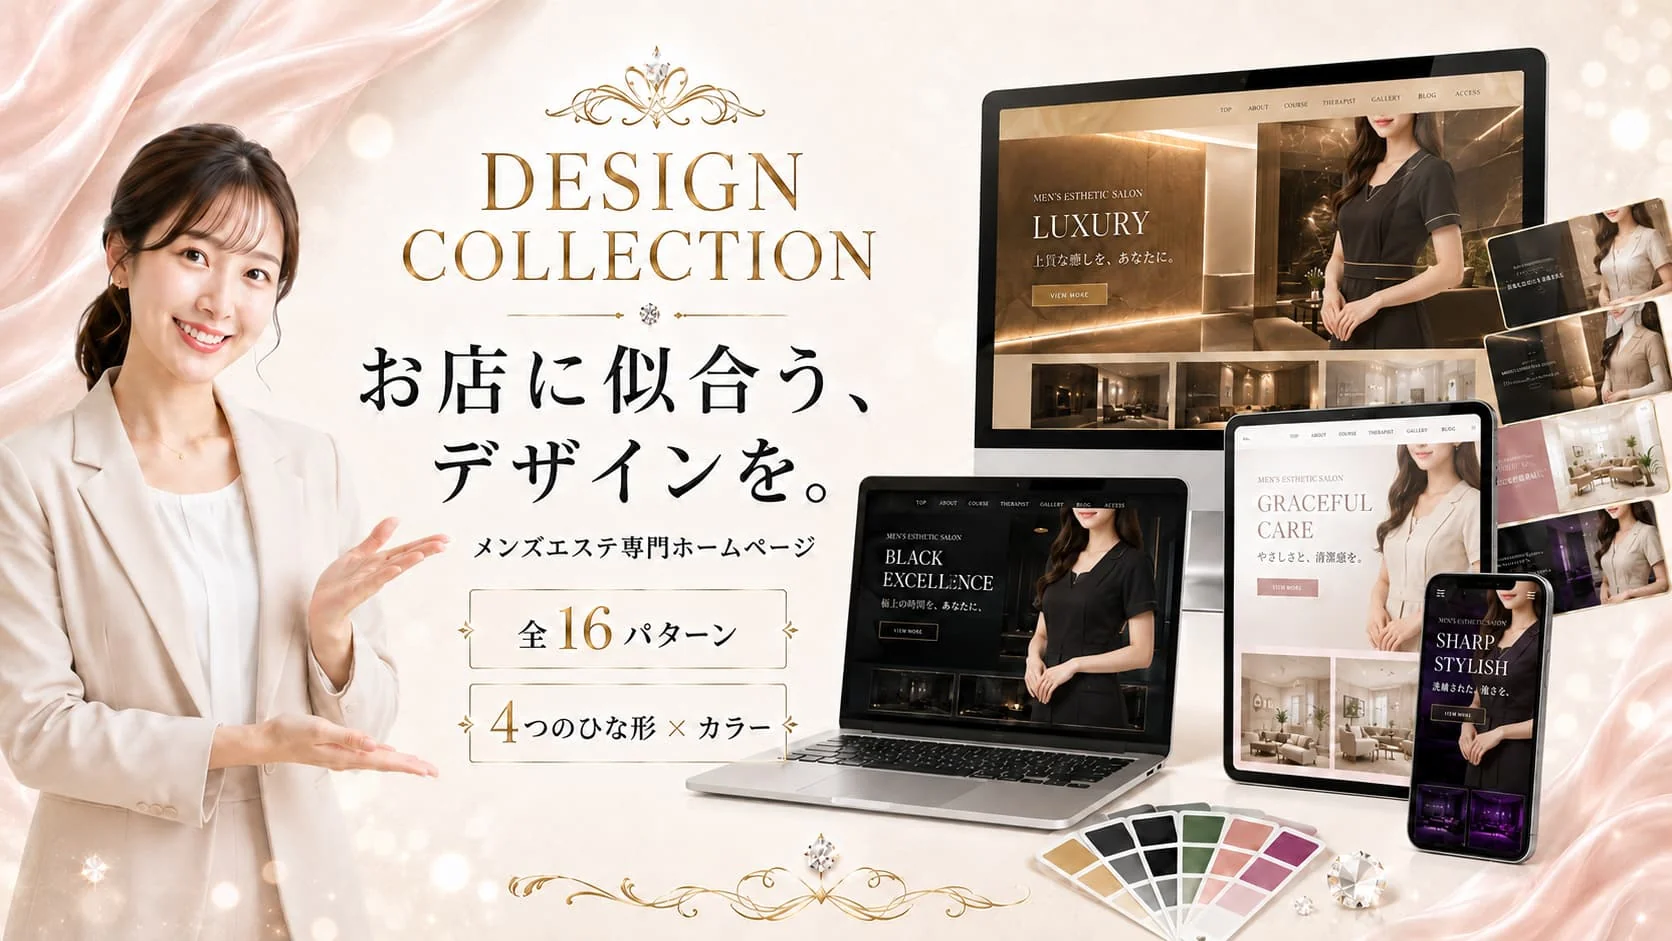
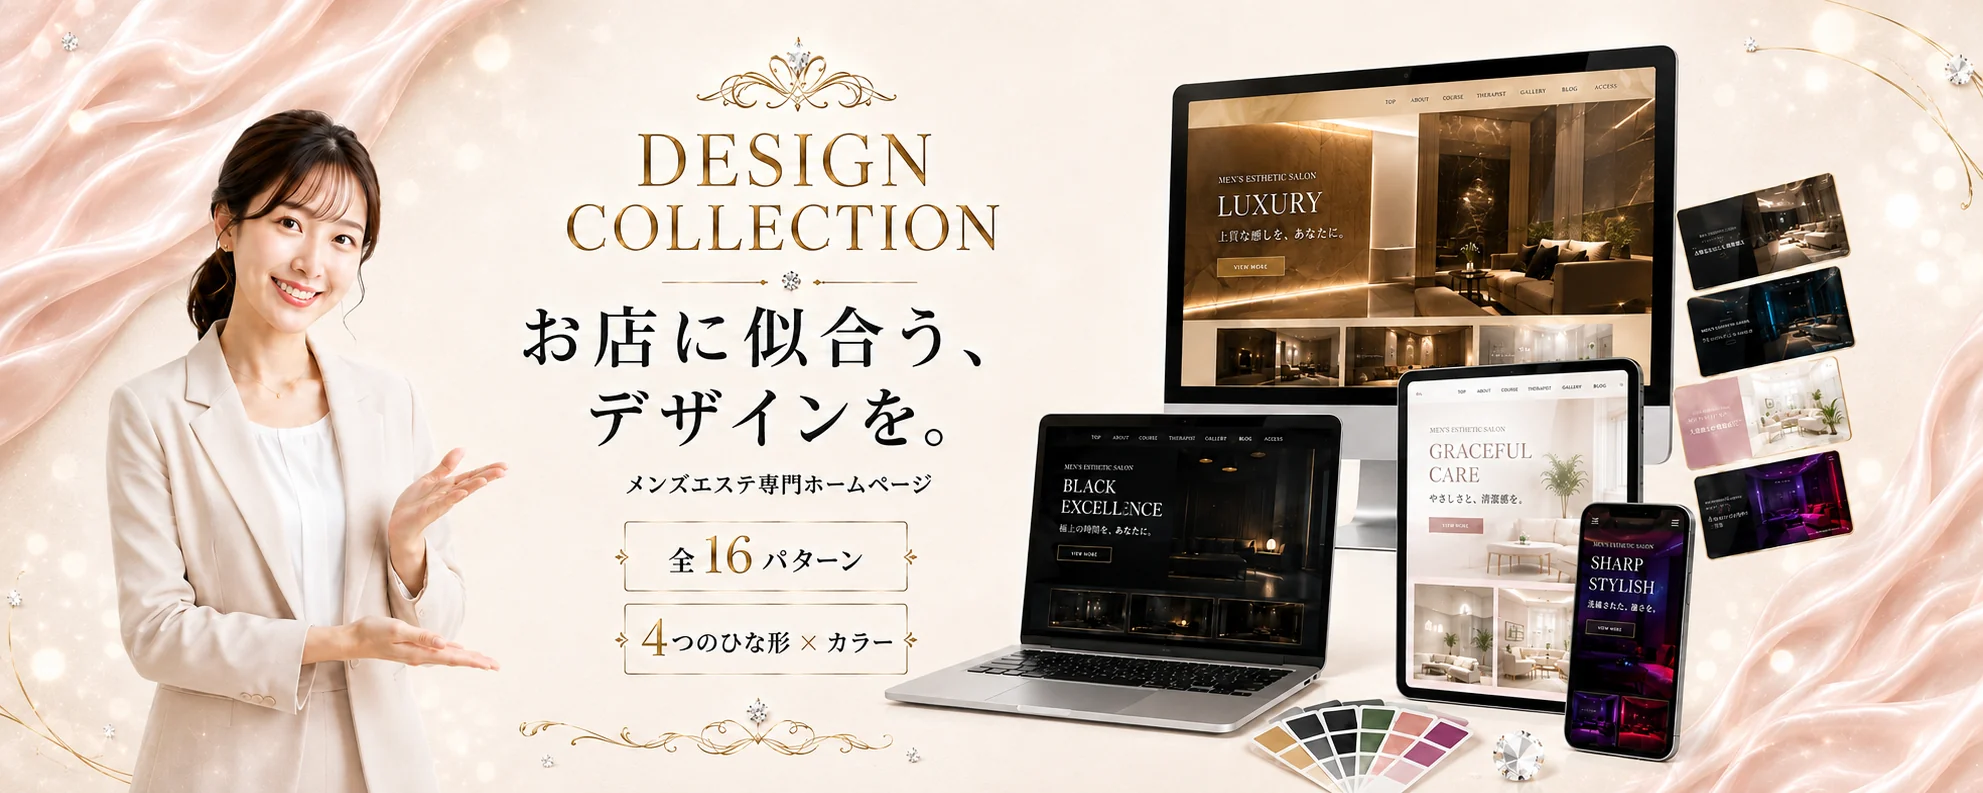
デザイン一覧のPCヒーローを2.5:1の新キービジュアルに差し替え

diff --git a/src/app/hp/templates/designs/page.tsx b/src/app/hp/templates/designs/page.tsx
@@ -138,17 +138,21 @@ export default function HpDesignsPage() {
           ★「16」は画像に焼き込まれている。カラーを増減したら designs-hero-pc/sp も作り直すこと
             （LP側の strengths / design / flow と合わせて計5枚になる）。
 
-          画像: public/hp-lp/designs-hero-pc.webp（1672×941・16:9）
+          画像: public/hp-lp/designs-hero-pc.webp（1983×793・約2.5:1）
                 public/hp-lp/designs-hero-sp.webp（864×1821・約1:2.11）
-          ※ 下端の色（PC #efded4・SP #f0dbcc）はページ背景 #fdf5f5 と差があるため、
+          ★ PC画像は 2026-08-16 に 1672×941（16:9）から 1983×793（2.5:1）へ差し替えた。
+            16:9 だと全幅表示で高さが 856px になり（ブラウザ幅1536pxで実測）、
+            表示領域639pxを 217px はみ出して「全16パターン」まで見えなかった。
+            2.5:1 なら同条件で 608px に収まる。★ 作り直すときも横長を保つこと。
+          ※ 下端の色（PC #f1e0d6・SP #f0dbcc）はページ背景 #fdf5f5 と差があるため、
             画像の直後に白い面を置かないこと。下の h1 ブロックはページ背景のままにしてある。 */}
       <section>
         <picture>
           <source media="(max-width: 639px)" srcSet="/hp-lp/designs-hero-sp.webp" width={864} height={1821} />
           <img
             src="/hp-lp/designs-hero-pc.webp"
-            width={1672}
-            height={941}
+            width={1983}
+            height={793}
             alt=""
             className="block w-full h-auto"
             fetchPriority="high"
@@ -163,14 +167,15 @@ export default function HpDesignsPage() {
       </section>
 
       {/* ── ヒーロー下端の継ぎ目つなぎ（2026-08-16）──
-          画像の下端はページ背景 #fdf5f5 と色差がある（PC 33 / SP 41・チャンネル最大）。
+          画像の下端はページ背景 #fdf5f5 と色差がある（PC 31 / SP 41・チャンネル最大）。
           ★ 画像側を背景色になじませる加工（flow-sp でやった手）は使えない。
             この画像は下端に金の飾りとダイヤが入っており、なじませると飾りが消えるため。
           そこで画像は無加工のまま、直下に「画像の下端色 → ページ背景」のグラデーションを敷いて繋ぐ。
           ★ 画像を作り直したら from- の色も測り直すこと（下端の平均色）。
-            2026-08-16 の実測: PC #efded4 / SP #f0dbcc。 */}
+            2026-08-16 の実測: PC #f1e0d6（2.5:1 に差し替えた新画像の下端16行平均）/ SP #f0dbcc。
+            旧 1672×941 の PC 画像は #efded4 だった。 */}
       <div aria-hidden="true" className="h-6 bg-gradient-to-b from-[#f0dbcc] to-[#fdf5f5] sm:hidden" />
-      <div aria-hidden="true" className="hidden h-8 bg-gradient-to-b from-[#efded4] to-[#fdf5f5] sm:block" />
+      <div aria-hidden="true" className="hidden h-8 bg-gradient-to-b from-[#f1e0d6] to-[#fdf5f5] sm:block" />
 
       {/* ── ページ見出し（可視の h1）── 2026-08-16
           ★ 帯を画像化したあとも、可視の h1 はここに文字で残すこと。
